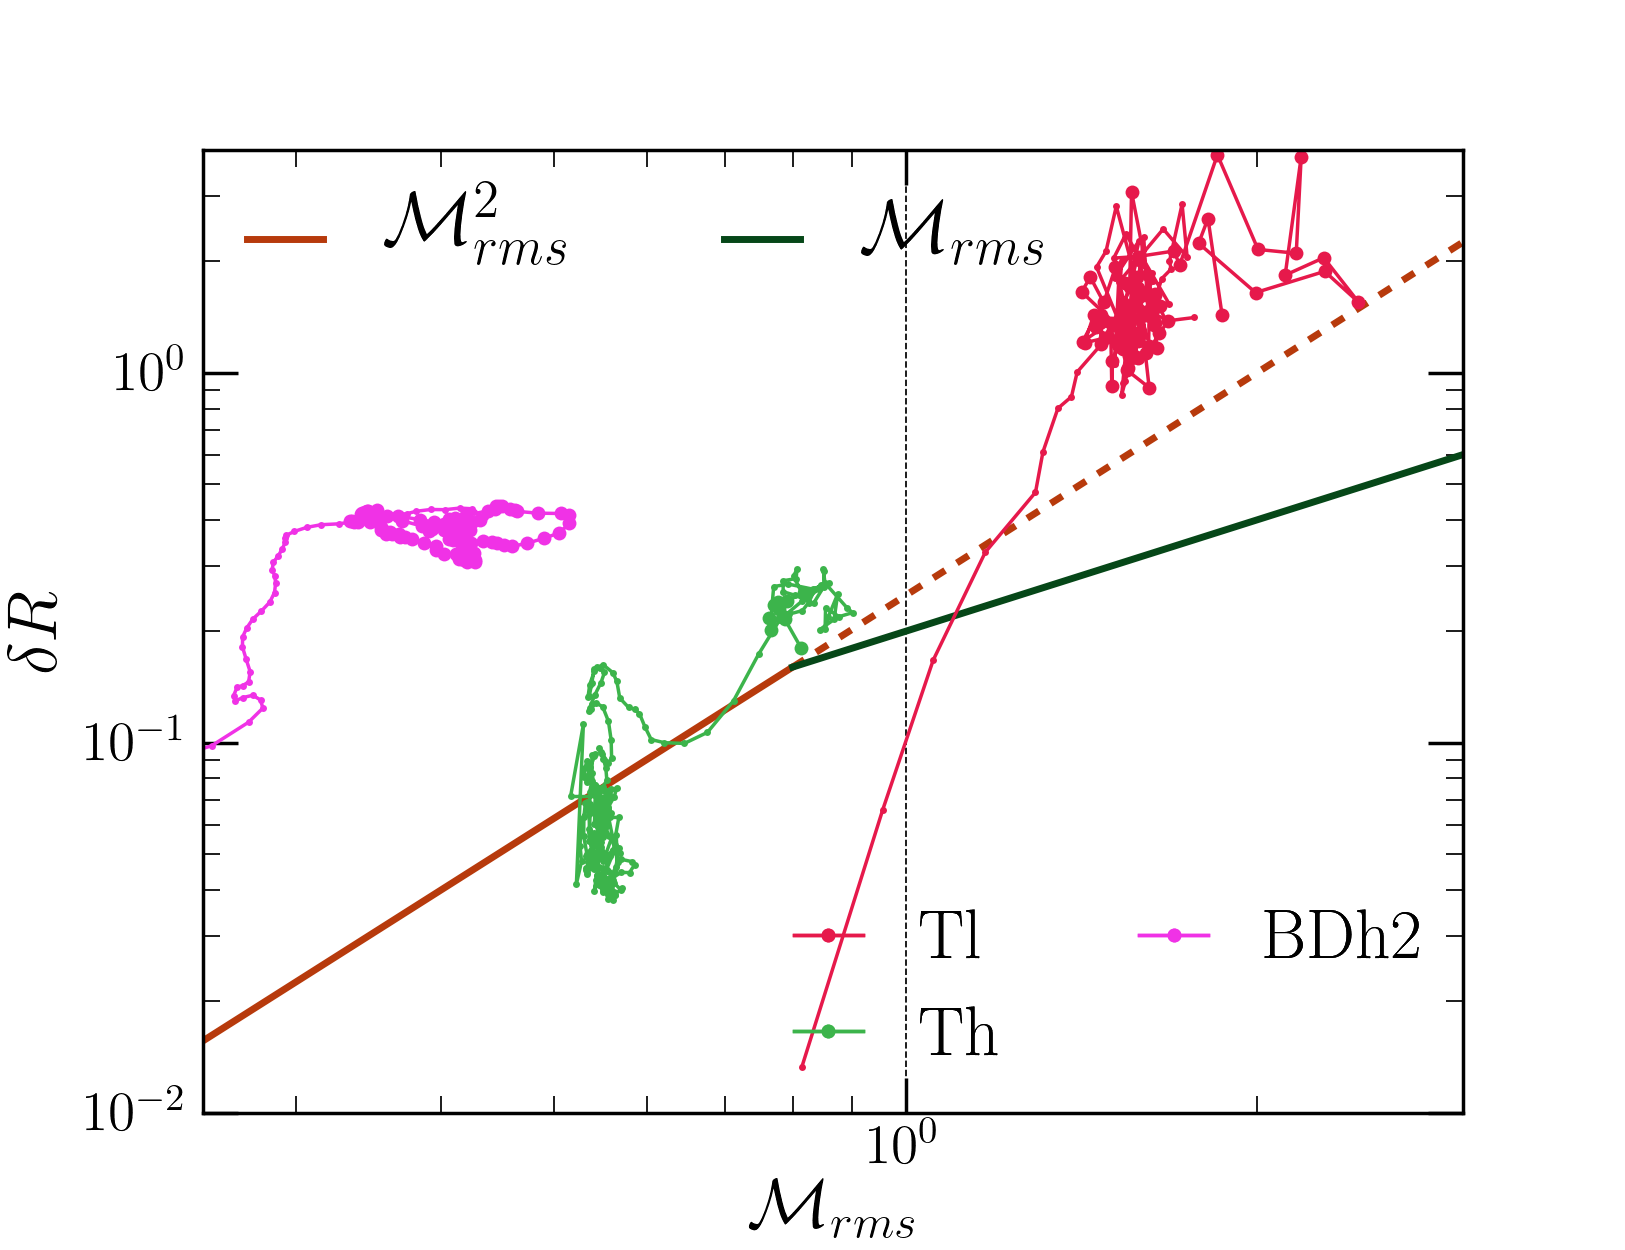
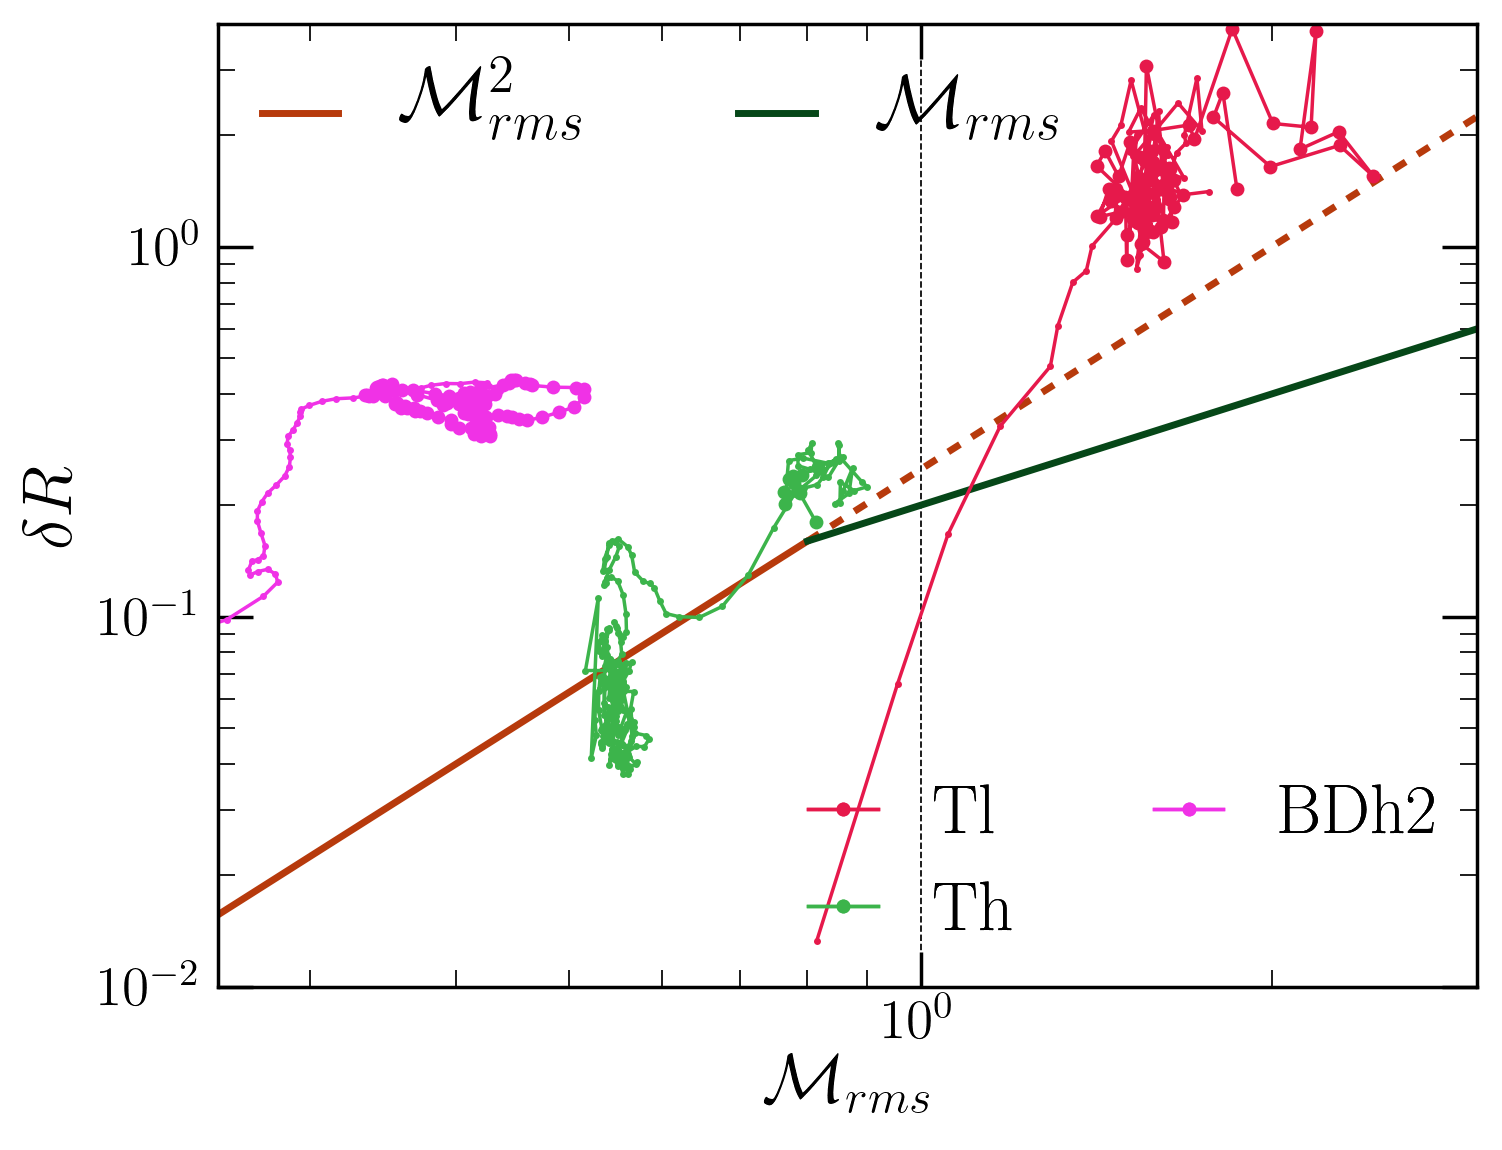
Updated plots for poster

diff --git a/for_conference/sb_mach_all.py b/for_conference/sb_mach_all.py
@@ -90,5 +90,5 @@ perturb2_leg=ax.legend(handles=perturb2, loc='lower right', bbox_to_anchor=(1.02
 ax.add_artist(perturb2_leg)
 perturb2_leg.get_frame().set_alpha(0.5)
 
-plt.savefig('sb-mach-all.png',dpi=250)
+plt.savefig('sb-mach-all.png',dpi=250, pad_inches=0.1, bbox_inches='tight')
 
